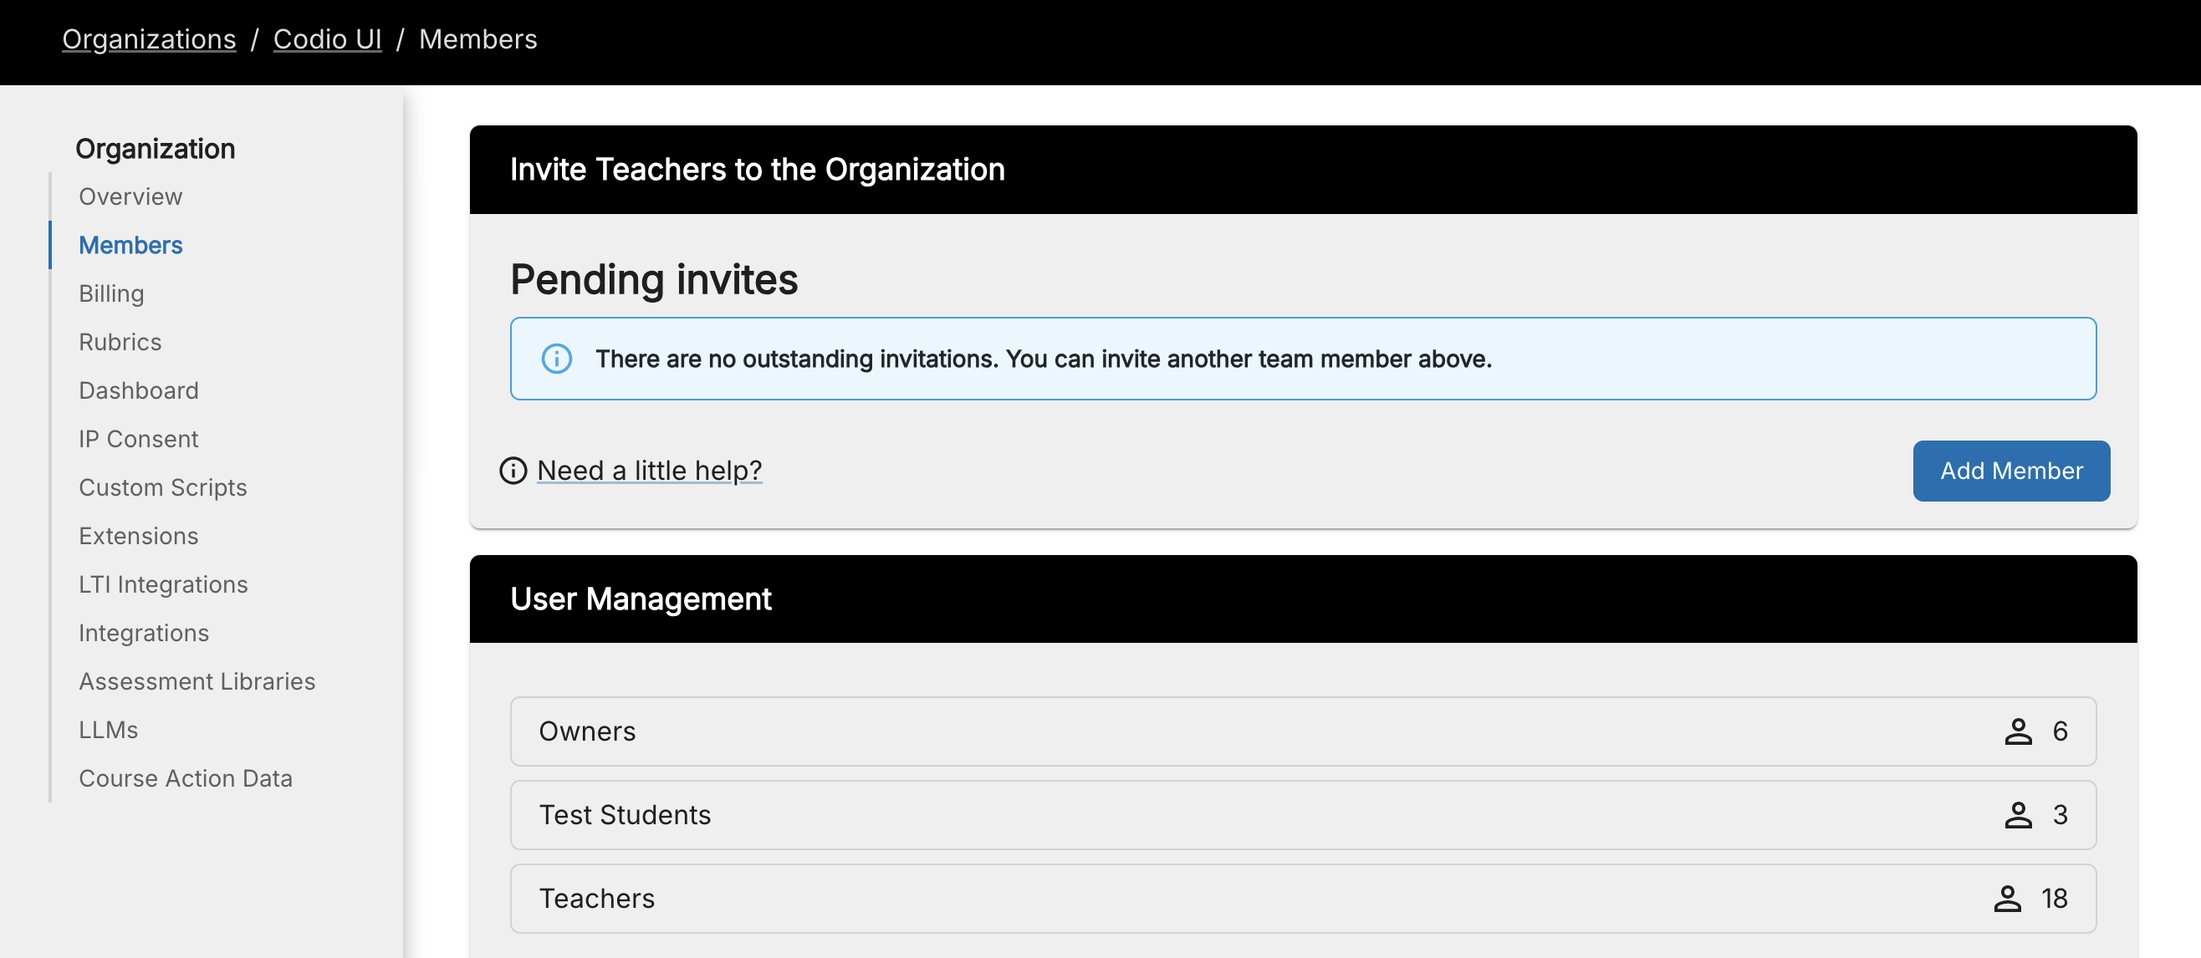
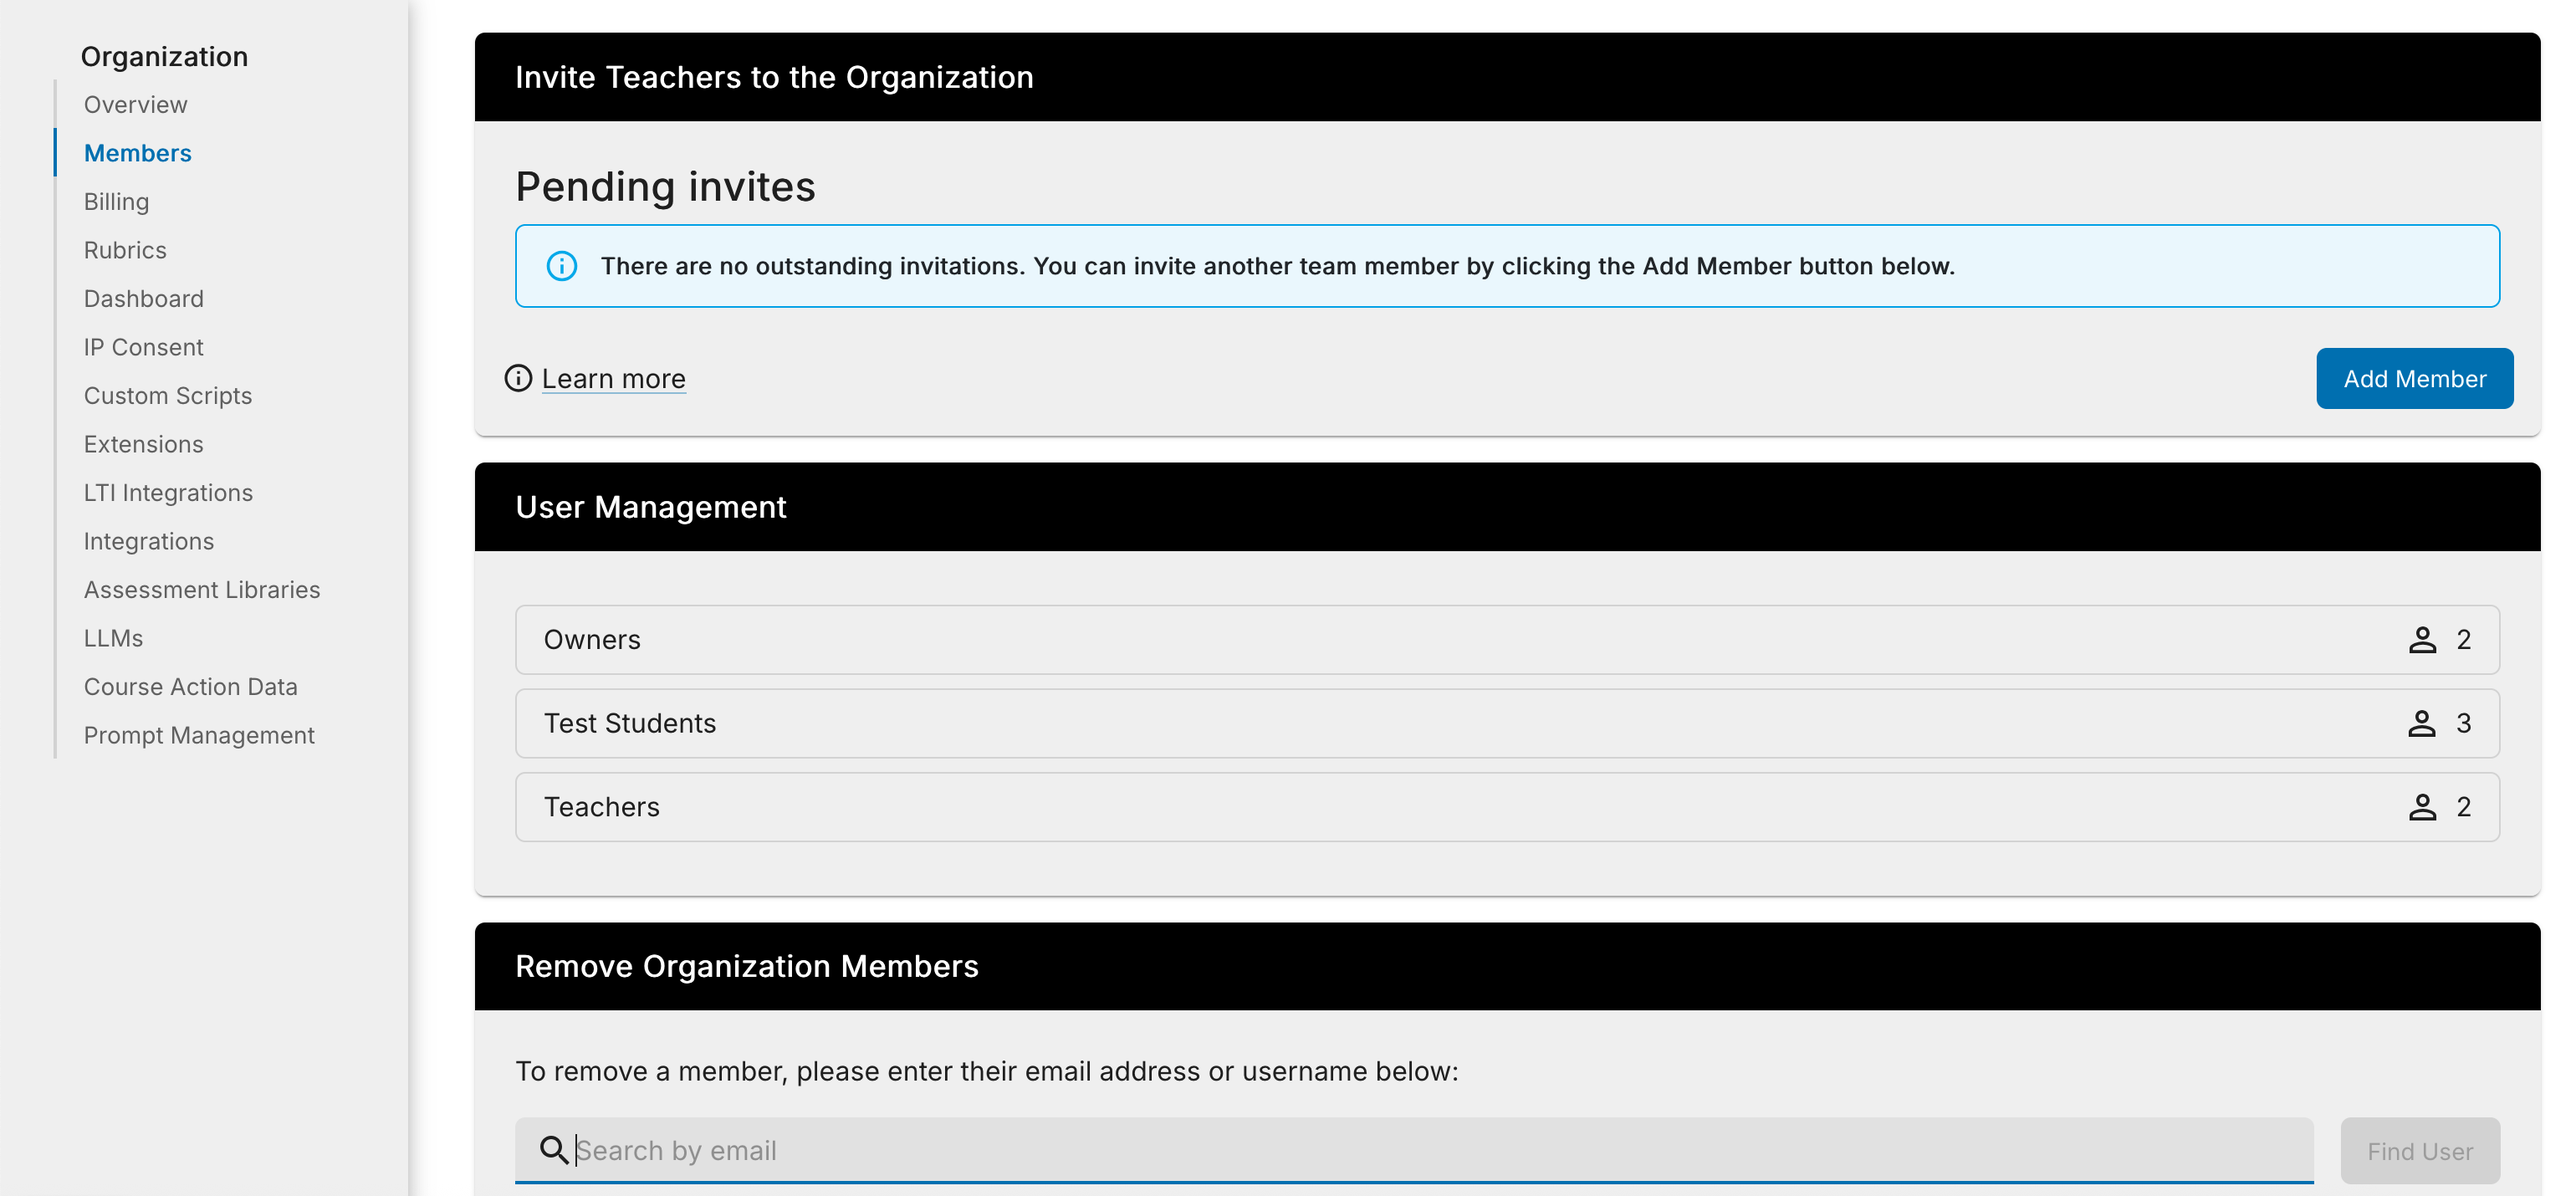
17266 Add-a-way-to-remove-any-organization-member (#449)
I need to get through the Code Rabbit process - I'll let you know when
that is complete!

<!-- This is an auto-generated comment: release notes by coderabbit.ai
-->
## Summary by CodeRabbit

* **Documentation**
  * Added clearer navigation steps to reach organization member removal.
* Expanded removal guidance with two methods: remove from Members tab or
search by group/username/email and remove.
* Updated meta description and clarified available actions; removed the
old single-path flow and unrelated cross-reference.
* Added images for "All Members" and "Remove Organization Members"
views.
  * Added warning that removing a student will delete their account.
* Updated changelog with a December entry announcing the new removal
option.

<sub>✏ Tip: You can customize this high-level summary in your review
settings.</sub>
<!-- end of auto-generated comment: release notes by coderabbit.ai -->

diff --git a/source/instructors/admin/organization/remove-org-members.rst b/source/instructors/admin/organization/remove-org-members.rst
@@ -1,12 +1,12 @@
 .. meta::
-   :description: Remove organization members, for example students, and use the account licences for other students.
+   :description: Remove organization members.
 
 .. _remove-org-members:
 
 Remove Organization Members
 ===========================
 
-To remove members from your organization, please follow these steps:
+Follow these steps to remove members from your organization:
 
 1. Click your username in the top-right corner, then select **Organization** from the menu.
 
@@ -15,17 +15,26 @@ To remove members from your organization, please follow these steps:
    .. image:: /img/class_administration/createanorganization/organizations.png
       :alt: My Organizations
 
-3. Click the **Members** tab.
+3. Click the **Members** tab. 
 
    .. image:: /img/manage_organization/memberstab.png
-      :alt: Members
+      :alt: All the settings that are available on the members tab
 
-4. In the **User Management** section, click the section you wish to view.
+You can use either of the two methods below to locate and remove organization members.
 
-5. Click the trash icon, on the right hand side, for each user you want to remove from your organization.
+.. warning:: If you remove a student from your organization, their account will be deleted.
 
-   .. image:: /img/allmembers.png
-      :alt: All Members
+- Option 1: In the **User Management** section, click the group (e.g., Teachers) you wish to view. Click the trash icon on the right for each user you want to remove from your organization.
 
-If you want to use the accounts for new students, see :ref:`Add or Remove Students in a Course <add-remove-students>`.
+.. image:: /img/allmembers.png
+    :alt: The list of all Members of a certain type
+
+- Option 2: In the **Remove Organization Members** section, type the username or email address of the person you want to remove and click **Find User**. Click the trash icon on the right for the user you want to remove from your organization.
+
+.. image:: /img/manage_organization/removeorgmember.png
+    :alt: Remove Organization Members search interface
+
+
+
+
 

diff --git a/source/instructors/getstarted/support/changelog.rst b/source/instructors/getstarted/support/changelog.rst
@@ -15,7 +15,8 @@ We do not report small bug fixes or issues that affect individual users, who we 
 
 **December 2025**
 
-- `[I] [12th]`: Added support for the :ref:`Jupyter Collaboration Extension<jupyter>`.
+- `[I] [19th]`: Add a way to :ref:`remove any organization member <remove-org-members>`.
+- `[I] [12th]`: Added support for the :ref:`Jupyter Collaboration Extension <jupyter>`.
 
 **November 2025**
 
